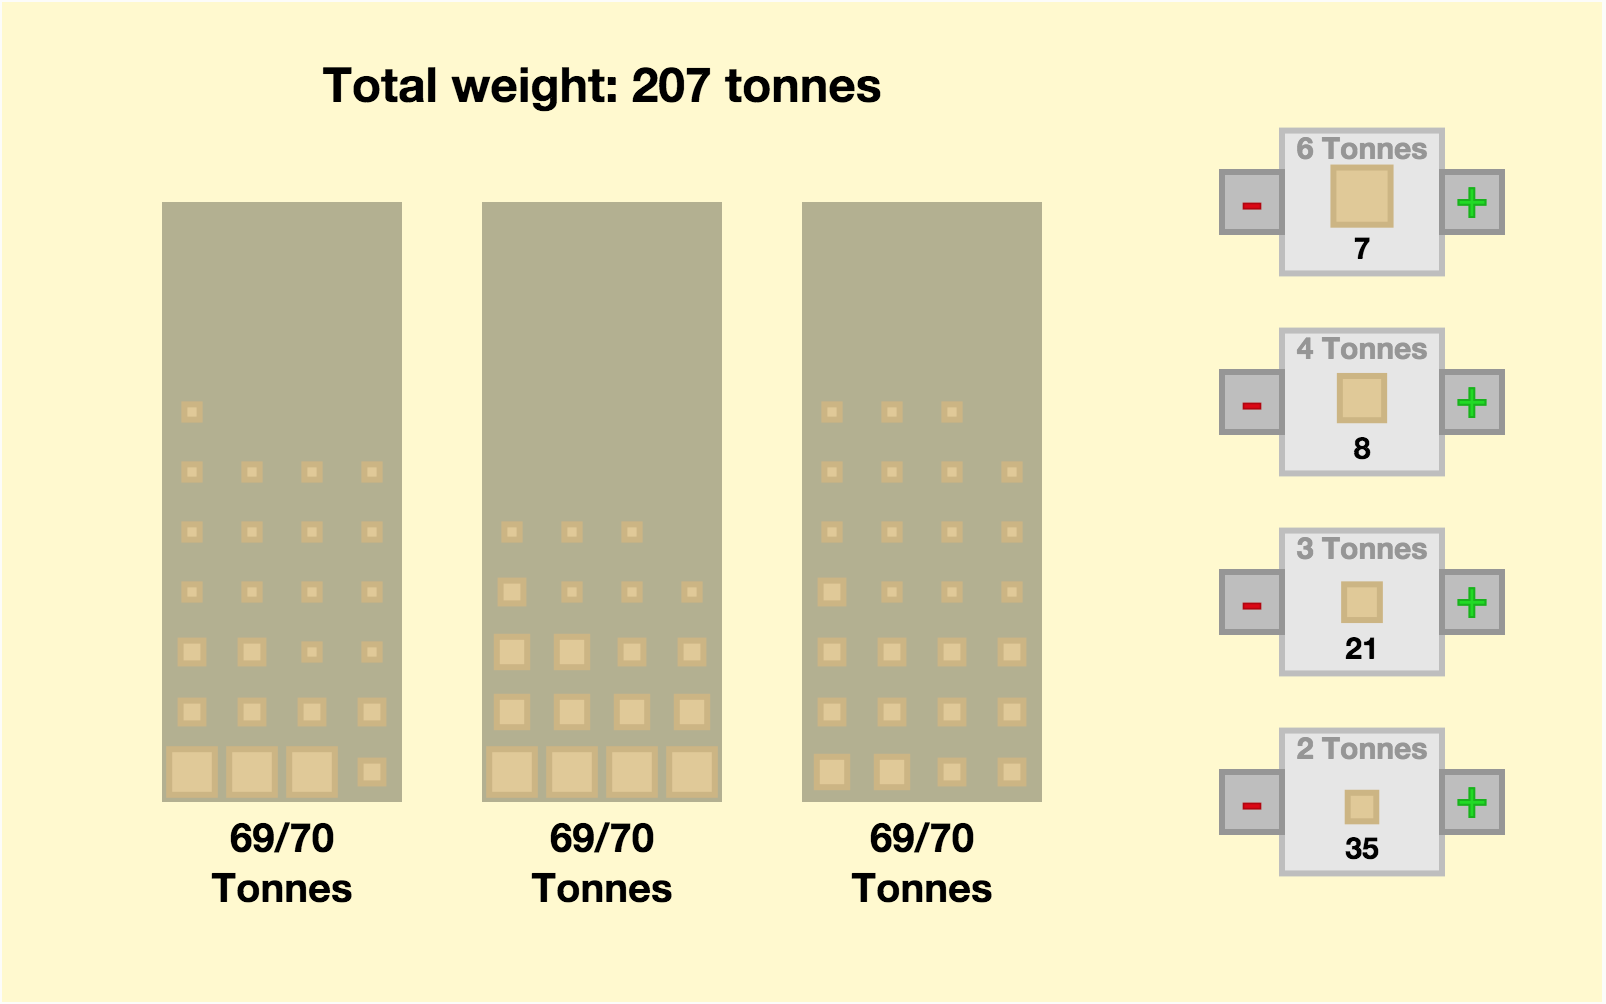
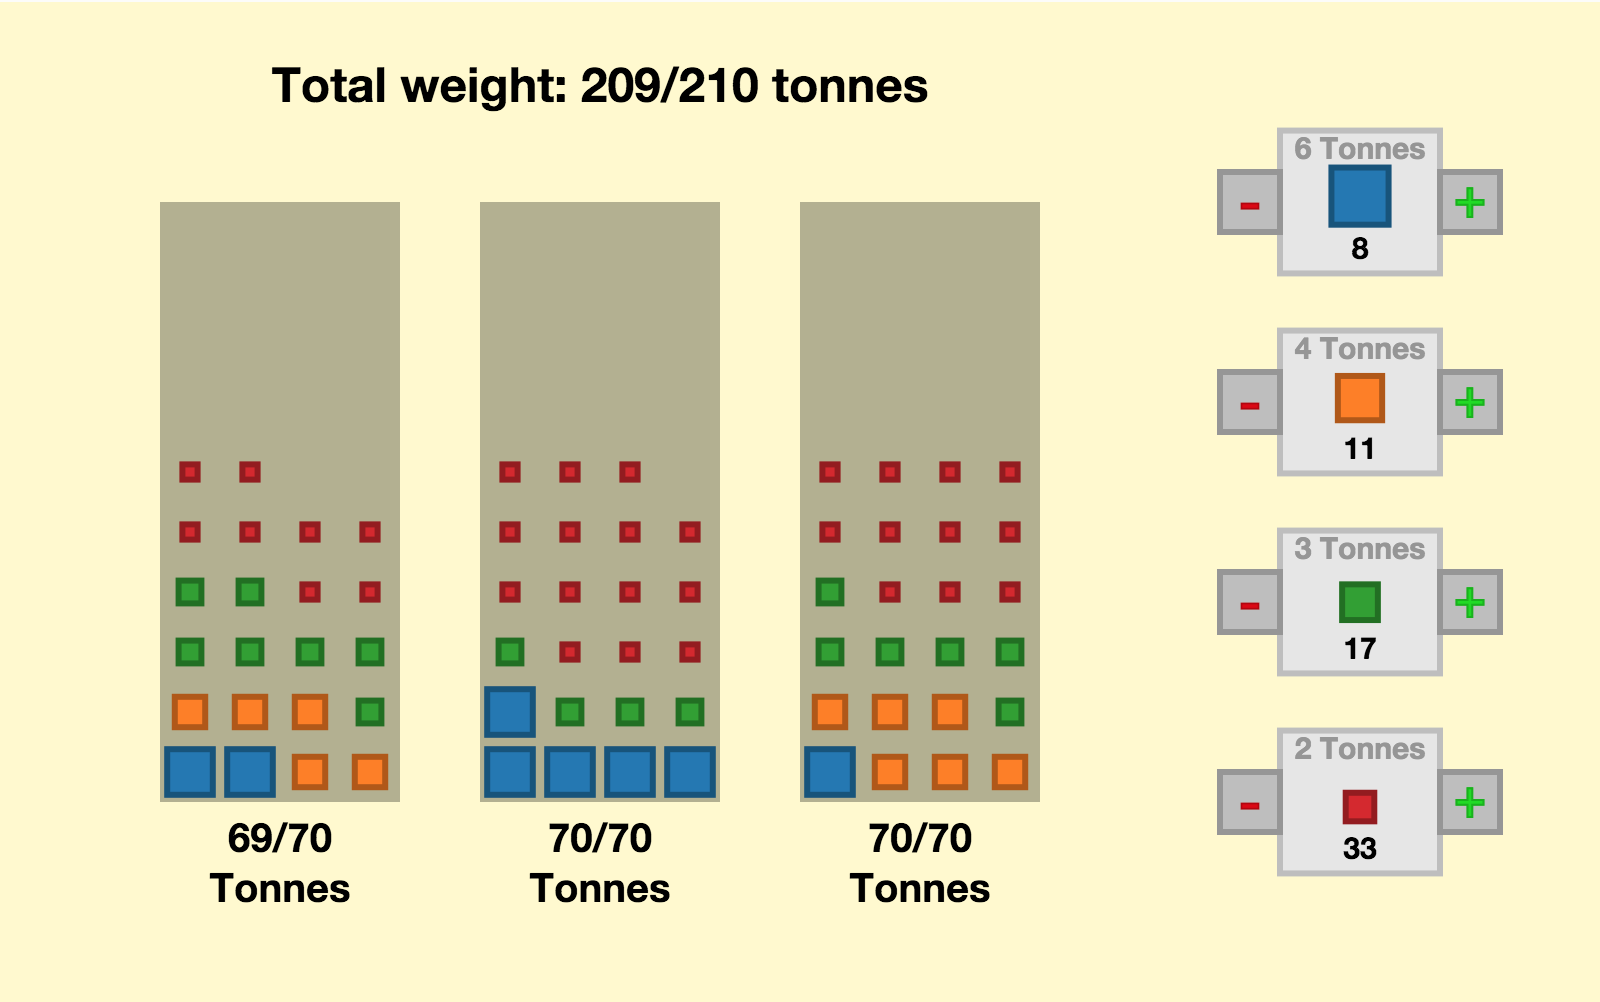
updated colors and screenshot

diff --git a/index.html b/index.html
@@ -272,6 +272,7 @@ d3.select('#logfile').style("display", "none");
 //Width and height
 var width = 800;
 var height = 500;
+var colors = d3.scale.category10();
 
 var svg = d3.select("#demoarea")
               .append("svg")
@@ -367,8 +368,8 @@ menu2G.selectAll("rect")
      .attr("y", function(d,i) { return d[1] - .3*menuH + (i+1)*menuH/17; })
      .attr("height", function(d,i) { return boxSize[i]; } )
      .attr("width", function(d,i) { return boxSize[i]; } )
-     .attr("fill", "rgb(225,202,149)")
-     .attr("stroke", "rgb(205,182,129)")
+     .attr("fill", function(d,i) { return colors(i); })
+     .attr("stroke", function(d,i) { return d3.rgb(colors(i)).darker(); })
      .attr("stroke-width", 3);
 
 buttonsPlusG.selectAll("rect")
@@ -584,8 +585,8 @@ function serverResponse(error, data) {
                  .attr("y", function(d,i) { return storage[j][1] - Math.floor(i/4)*storageH/10 + .95*storageH - boxScale*boxes[d]/2; })
                  .attr("height", function(d) { return boxScale*boxes[d];})
                  .attr("width", function(d) { return boxScale*boxes[d];})
-                 .attr("fill", "rgb(225,202,149)")
-                 .attr("stroke", "rgb(205,182,129)")
+                 .attr("fill", function(d) { var idx = boxWeights.indexOf(boxes[d]); return colors(idx); })
+                 .attr("stroke", function(d) { var idx = boxWeights.indexOf(boxes[d]); return d3.rgb(colors(idx)).darker(); })
                  .attr("stroke-width", 3)
                  .attr("opacity", 0)
                  .transition()
